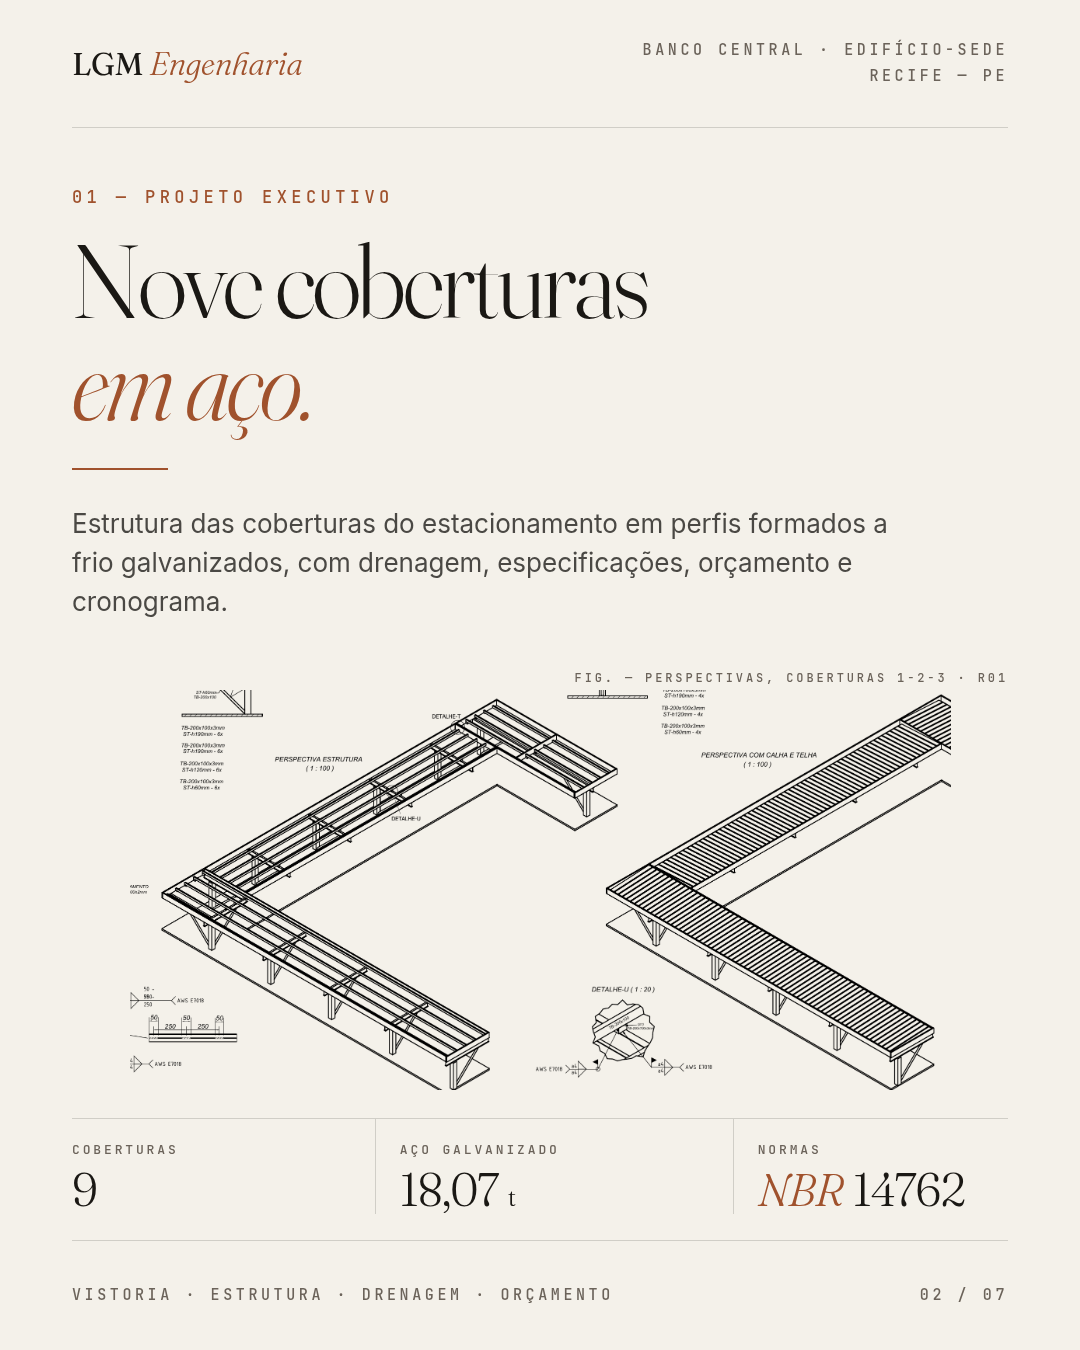
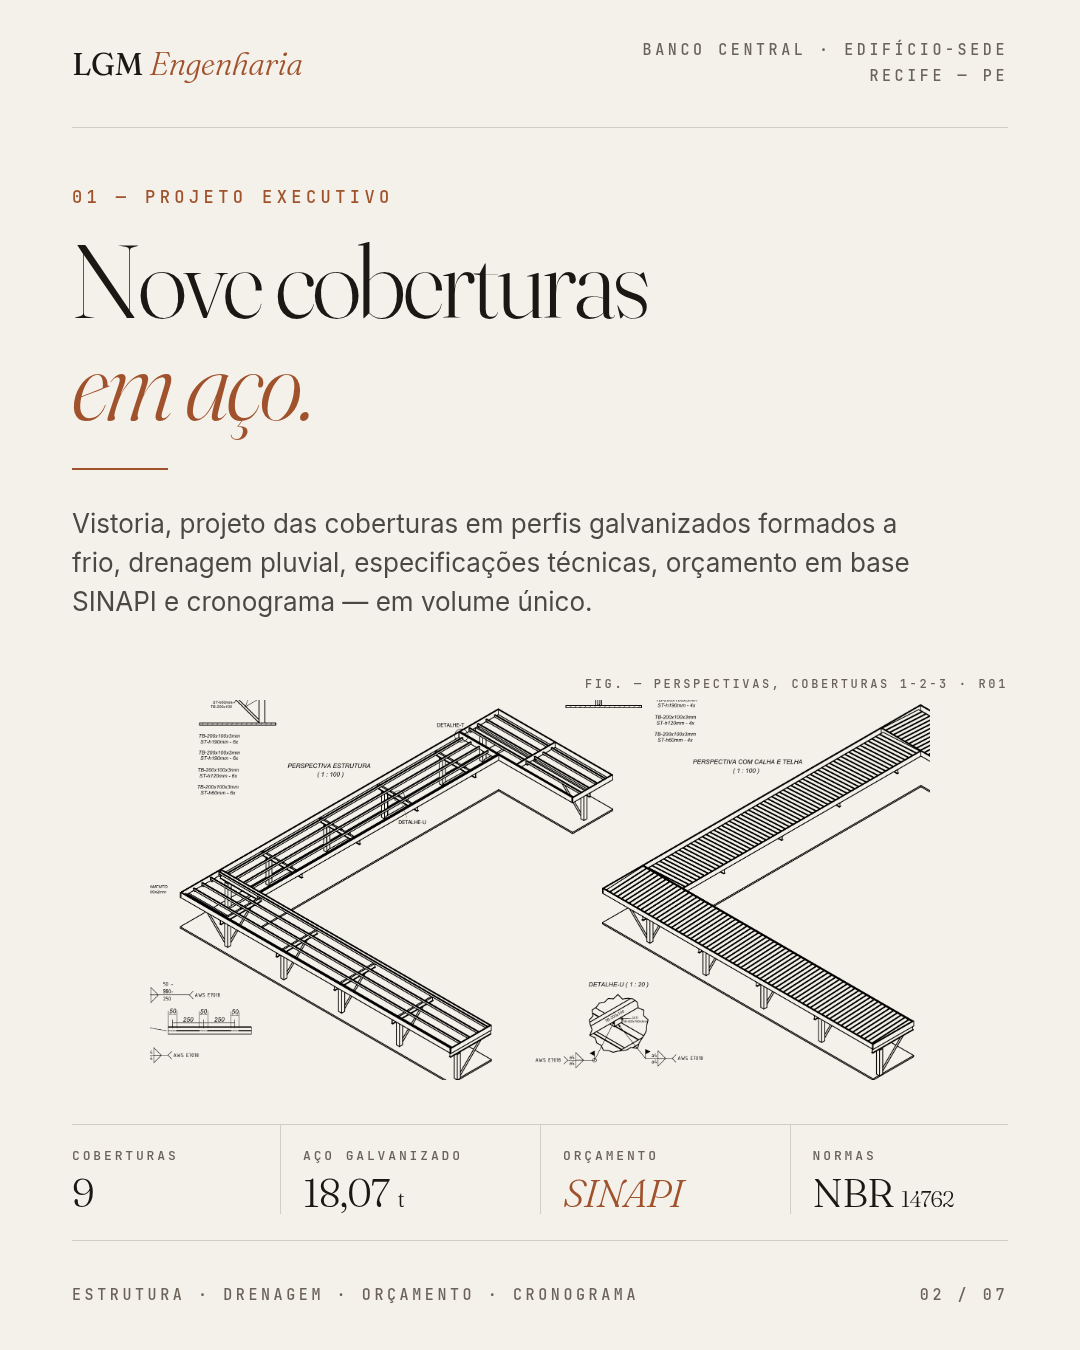
Carrossel Entregues 2026: SINAPI em destaque, plantas da Capitania e de Dom Silvério, fotos novas e fecho com o L.
- Remove créditos de terceiros, CREA e telefone dos slides e da legenda
- Banco Central, Dom Silvério e Marinha citam orçamento em base SINAPI
- Capitania: planta baixa do projeto básico como figura principal
- Dom Silvério: fachada + planta baixa como figura do projeto
- Débora: render da casa pronta; Chalé M.D.: render do chalé
- Último slide só com o L. e a frase Do risco à chave

Claude-Session: https://claude.ai/code/session_01PRv9GQGVQpthPzk2xkVq1a

diff --git a/instagram/entregues_2026.html b/instagram/entregues_2026.html
@@ -43,6 +43,8 @@ html,body{background:#0d0c0a;}
 .dk .p,.ov .p{color:rgba(244,241,234,.82);}
 .bar{width:96px;height:2px;background:var(--terra);margin:34px 0;}
 .dk .bar,.ov .bar{background:var(--terra-c);}
+.cap{font-family:var(--M);font-weight:500;font-size:12px;letter-spacing:.22em;text-transform:uppercase;color:var(--muted);}
+.dk .cap,.ov .cap{color:rgba(244,241,234,.55);}
 .tags{display:flex;flex-wrap:wrap;gap:12px;}
 .tag{font-family:var(--M);font-weight:500;font-size:14px;letter-spacing:.2em;text-transform:uppercase;
   border:1px solid currentColor;padding:9px 14px 8px;opacity:.85;}
@@ -50,25 +52,27 @@ html,body{background:#0d0c0a;}
 /* ficha técnica */
 .spec{display:grid;border-top:1px solid rgba(26,24,20,.16);}
 .dk .spec,.ov .spec{border-color:rgba(244,241,234,.18);}
-.spec>div{padding:22px 24px 0 0;}
-.spec>div+div{padding-left:24px;border-left:1px solid rgba(26,24,20,.16);}
+.spec>div{padding:22px 20px 0 0;}
+.spec>div+div{padding-left:22px;border-left:1px solid rgba(26,24,20,.16);}
 .dk .spec>div+div,.ov .spec>div+div{border-color:rgba(244,241,234,.18);}
-.spec .k{font-family:var(--M);font-weight:500;font-size:13px;letter-spacing:.22em;text-transform:uppercase;color:var(--muted);}
+.spec .k{font-family:var(--M);font-weight:500;font-size:13px;letter-spacing:.22em;text-transform:uppercase;color:var(--muted);white-space:nowrap;}
 .dk .spec .k,.ov .spec .k{color:rgba(244,241,234,.55);}
-.spec .v{font-family:var(--D);font-weight:300;font-size:46px;letter-spacing:-.02em;margin-top:8px;line-height:1.05;}
+.spec .v{font-family:var(--D);font-weight:300;font-size:46px;letter-spacing:-.02em;margin-top:8px;line-height:1.05;white-space:nowrap;}
 .spec .v small{font-size:.55em;}
 .spec .v em{font-style:italic;color:var(--terra);}
 .dk .spec .v em,.ov .spec .v em{color:var(--terra-c);}
+.spec.four .v{font-size:40px;}
 
-/* foto em sangria com tratamento */
+/* imagens */
 .bg{position:absolute;inset:0;background-size:cover;background-position:center;z-index:0;}
 .shade{position:absolute;inset:0;z-index:1;}
 .ov{color:var(--papel);}
 .box{position:absolute;left:72px;right:72px;z-index:10;}
+.draw{background-size:contain;background-position:center;background-repeat:no-repeat;mix-blend-mode:multiply;}
 
 /* ═════ 01 · CAPA ═════ */
 #s1 .draw{position:absolute;left:60px;right:60px;top:150px;height:330px;z-index:1;
-  background:url('../assets/projetos/bcb-perspectiva.png') center/contain no-repeat;
+  background-image:url('../assets/projetos/bcb-perspectiva.png');
   filter:invert(1) sepia(.35);mix-blend-mode:screen;opacity:.30;}
 #s1 .box{bottom:150px;}
 #s1 .h{font-size:176px;margin-top:26px;}
@@ -80,58 +84,54 @@ html,body{background:#0d0c0a;}
 /* ═════ 02 · BCB ═════ */
 #s2 .top{position:absolute;top:186px;left:72px;right:72px;}
 #s2 .h{font-size:104px;margin-top:22px;}
-#s2 .p{margin-top:0;font-size:26px;max-width:860px;}
-#s2 .draw{position:absolute;left:20px;right:20px;top:690px;height:400px;
-  background:url('../assets/projetos/bcb-perspectiva.png') center/contain no-repeat;mix-blend-mode:multiply;}
-#s2 .spec{position:absolute;left:72px;right:72px;bottom:110px;grid-template-columns:1.1fr 1.3fr 1fr;padding-bottom:26px;}
-#s2 .cap{position:absolute;right:72px;top:668px;color:var(--muted);font-size:12px;}
+#s2 .p{font-size:26px;max-width:880px;}
+#s2 .draw{position:absolute;left:20px;right:20px;top:700px;height:380px;
+  background-image:url('../assets/projetos/bcb-perspectiva.png');}
+#s2 .cap{position:absolute;right:72px;top:676px;}
+#s2 .spec{position:absolute;left:72px;right:72px;bottom:110px;grid-template-columns:1fr 1.25fr 1.2fr 1.05fr;padding-bottom:26px;}
 
 /* ═════ 03 · DOM SILVÉRIO ═════ */
-#s3 .bg{top:129px;bottom:auto;height:600px;background-image:url('../assets/projetos/dom-silverio-fachada-frontal.jpg');background-position:50% 60%;}
-#s3 .shade{top:129px;bottom:auto;height:600px;background:linear-gradient(to bottom,rgba(26,24,20,0) 70%,var(--tinta) 100%);}
-#s3 .box{bottom:140px;}
-#s3 .h{font-size:100px;margin-top:22px;}
-#s3 .p{font-size:26px;max-width:840px;}
-#s3 .spec{grid-template-columns:repeat(3,1fr);margin-top:40px;}
-#s3 .credit{position:absolute;right:72px;top:690px;z-index:10;font-size:12px;color:rgba(244,241,234,.7);}
+#s3 .bg{top:129px;bottom:auto;height:420px;background-image:url('../assets/projetos/dom-silverio-fachada.jpg');background-position:50% 55%;}
+#s3 .top{position:absolute;top:596px;left:72px;right:72px;display:grid;grid-template-columns:1fr 360px;column-gap:44px;}
+#s3 .h{font-size:84px;margin-top:20px;}
+#s3 .p{font-size:24px;margin-top:26px;max-width:600px;}
+#s3 .fig{width:360px;height:218px;margin-top:6px;background:url('../assets/projetos/dom-silverio-planta.png') center/cover;
+  border:1px solid rgba(244,241,234,.18);}
+#s3 .fig-cap{margin-top:12px;}
+#s3 .spec{position:absolute;left:72px;right:72px;bottom:110px;grid-template-columns:1fr 1fr 1.25fr 1fr;padding-bottom:26px;}
 
 /* ═════ 04 · MARINHA ═════ */
 #s4{background:var(--papel2);}
-#s4 .top{position:absolute;top:186px;left:72px;right:72px;display:grid;grid-template-columns:1fr 400px;gap:56px;}
-#s4 .h{font-size:92px;margin-top:22px;}
-#s4 .p{font-size:26px;}
-#s4 .doc{width:400px;height:566px;background:url('../assets/projetos/marinha-memorial-capa.png') center/cover;
-  box-shadow:0 1px 0 rgba(26,24,20,.08),0 30px 60px rgba(26,24,20,.22);margin-top:8px;}
-#s4 .doc-cap{margin-top:18px;color:var(--muted);font-size:12px;}
-#s4 .spec{position:absolute;left:72px;right:72px;bottom:110px;grid-template-columns:repeat(3,1fr);padding-bottom:26px;}
+#s4 .cap{position:absolute;left:72px;top:160px;}
+#s4 .draw{position:absolute;left:30px;right:30px;top:196px;height:390px;
+  background-image:url('../assets/projetos/marinha-planta.png');}
+#s4 .top{position:absolute;top:600px;left:72px;right:72px;}
+#s4 .h{font-size:92px;margin-top:20px;}
+#s4 .p{font-size:25px;margin-top:26px;max-width:900px;}
+#s4 .spec{position:absolute;left:72px;right:72px;bottom:110px;grid-template-columns:1fr 1.15fr 1.25fr 1fr;padding-bottom:26px;}
 
 /* ═════ 05 · DÉBORA LSF ═════ */
-#s5 .bg{top:300px;background-image:url('../assets/projetos/debora-estrutura-lsf.jpg');background-position:center 40%;}
-#s5 .shade{background:linear-gradient(to bottom,var(--tinta) 0%,var(--tinta) 22%,rgba(26,24,20,.2) 40%,rgba(26,24,20,0) 52%,rgba(26,24,20,.55) 70%,rgba(26,24,20,.96) 86%);}
-#s5 .top{position:absolute;top:186px;left:72px;right:72px;z-index:10;}
-#s5 .h{font-size:100px;margin-top:22px;}
-#s5 .box{bottom:140px;}
-#s5 .spec{grid-template-columns:repeat(3,1fr);}
-#s5 .cap{position:absolute;right:72px;bottom:430px;z-index:10;font-size:12px;color:rgba(244,241,234,.6);}
+#s5 .bg{top:129px;bottom:auto;height:760px;background-image:url('../assets/projetos/debora-casa.jpg');background-position:center 62%;}
+#s5 .shade{top:129px;bottom:auto;height:760px;background:linear-gradient(to bottom,rgba(26,24,20,0) 55%,rgba(26,24,20,.9) 88%,var(--tinta) 100%);}
+#s5 .box{top:700px;}
+#s5 .h{font-size:92px;margin-top:20px;}
+#s5 .tags{margin-top:34px;}
+#s5 .spec{position:absolute;left:72px;right:72px;bottom:110px;grid-template-columns:1.1fr 1fr 1.05fr;padding-bottom:26px;}
 
-/* ═════ 06 · NA PRANCHETA ═════ */
-#s6 .split{position:absolute;top:128px;left:0;right:0;height:440px;padding:56px 72px 0;}
+/* ═════ 06 · CHALÉ ═════ */
+#s6 .top{position:absolute;top:184px;left:72px;right:72px;}
 #s6 .h{font-size:92px;margin-top:22px;}
 #s6 .p{font-size:25px;max-width:860px;margin-top:22px;}
-#s6 .img{position:absolute;left:0;right:0;top:600px;bottom:110px;background:url('../assets/projetos/md-residencia-aerea.jpg') center 55%/cover;}
+#s6 .img{position:absolute;left:0;right:0;top:600px;bottom:110px;background:url('../assets/projetos/chale-md.jpg') center 48%/cover;}
 #s6 .ft{background:var(--papel);}
 #s6 .stamp{position:absolute;left:72px;bottom:140px;z-index:5;background:var(--papel);padding:14px 20px 12px;color:var(--terra);}
 
-/* ═════ 07 · CTA ═════ */
-#s7 .box{top:250px;}
-#s7 .h{font-size:150px;margin-top:30px;}
-#s7 .p{font-size:30px;max-width:800px;font-family:var(--D);font-style:italic;font-weight:300;color:rgba(244,241,234,.78);}
-#s7 .contact{position:absolute;left:72px;right:72px;bottom:150px;z-index:10;border-top:1px solid rgba(244,241,234,.18);}
-#s7 .row{display:grid;grid-template-columns:200px 1fr;align-items:baseline;padding:24px 0;border-bottom:1px solid rgba(244,241,234,.18);}
-#s7 .row .mono{color:var(--terra-c);font-size:14px;}
-#s7 .row .v{font-family:var(--D);font-weight:300;font-size:44px;letter-spacing:-.01em;}
-#s7 .L{position:absolute;right:40px;top:150px;font-family:var(--D);font-weight:300;font-size:520px;line-height:.8;color:rgba(244,241,234,.04);z-index:1;}
-#s7 .L em{color:rgba(201,122,78,.12);font-style:italic;}
+/* ═════ 07 · FECHO ═════ */
+#s7 .mark{position:absolute;left:50%;top:356px;transform:translateX(-50%);width:400px;height:447px;
+  background:url('../assets/logo-L.png') center/contain no-repeat;}
+#s7 .line{position:absolute;left:72px;right:72px;top:870px;text-align:center;
+  font-family:var(--D);font-weight:300;font-size:78px;letter-spacing:-.02em;color:var(--tinta);}
+#s7 .line em{font-style:italic;color:var(--terra);}
 
 /* apoio (fora das imagens) */
 .kit{width:1080px;margin:40px 0 80px;padding:56px 72px;background:var(--papel);color:var(--tinta);font-family:var(--B);}
@@ -170,33 +170,39 @@ html,body{background:#0d0c0a;}
     <div class="kick">01 — Projeto executivo</div>
     <div class="h">Nove coberturas<br><em>em aço.</em></div>
     <div class="bar"></div>
-    <p class="p">Estrutura das coberturas do estacionamento em perfis formados a frio galvanizados, com drenagem, especificações, orçamento e cronograma.</p>
+    <p class="p">Vistoria, projeto das coberturas em perfis galvanizados formados a frio, drenagem pluvial, especificações técnicas, orçamento em base SINAPI e cronograma — em volume único.</p>
   </div>
-  <div class="cap mono">Fig. — Perspectivas, coberturas 1-2-3 · R01</div>
+  <div class="cap">Fig. — Perspectivas, coberturas 1-2-3 · R01</div>
   <div class="draw"></div>
-  <div class="spec">
+  <div class="spec four">
     <div><div class="k">Coberturas</div><div class="v">9</div></div>
     <div><div class="k">Aço galvanizado</div><div class="v">18,07 <small>t</small></div></div>
-    <div><div class="k">Normas</div><div class="v"><em>NBR</em> 14762</div></div>
+    <div><div class="k">Orçamento</div><div class="v"><em>SINAPI</em></div></div>
+    <div><div class="k">Normas</div><div class="v">NBR <small>14762</small></div></div>
   </div>
-  <div class="ft"><span class="mono">Vistoria · Estrutura · Drenagem · Orçamento</span><span class="mono">02 / 07</span></div>
+  <div class="ft"><span class="mono">Estrutura · Drenagem · Orçamento · Cronograma</span><span class="mono">02 / 07</span></div>
 </section>
 
 <!-- 03 · DOM SILVÉRIO -->
-<section class="slide ov dk" id="s3">
-  <div class="bg"></div><div class="shade"></div>
+<section class="slide dk" id="s3">
+  <div class="bg"></div>
   <div class="hd"><div class="wm">LGM <em>Engenharia</em></div><div class="mono">Câmara Municipal<br>Dom Silvério — MG</div></div>
-  <div class="credit mono">Render · arq. Mirian Silva</div>
-  <div class="box">
-    <div class="kick">02 — Orçamento de obra</div>
-    <div class="h">Reforma pública,<br><em>conta fechada.</em></div>
-    <div class="bar"></div>
-    <p class="p">Orçamento, especificações, curva ABC e cronograma físico-financeiro para a reforma da Câmara Municipal.</p>
-    <div class="spec">
-      <div><div class="k">Intervenção</div><div class="v">210 <small>m²</small></div></div>
-      <div><div class="k">Prazo de obra</div><div class="v">2 <small>meses</small></div></div>
-      <div><div class="k">Entrega</div><div class="v"><em>set</em> 2026</div></div>
+  <div class="top">
+    <div>
+      <div class="kick">02 — Orçamento de obra pública</div>
+      <div class="h">Reforma pública,<br><em>conta fechada.</em></div>
+      <p class="p">Orçamento analítico em base SINAPI-MG, curva ABC, memoriais descritivos e cronograma físico-financeiro — cobertura nova, plenário e salas.</p>
     </div>
+    <div>
+      <div class="fig"></div>
+      <div class="cap fig-cap">Fig. — Planta baixa · 1/75</div>
+    </div>
+  </div>
+  <div class="spec four">
+    <div><div class="k">Intervenção</div><div class="v">210 <small>m²</small></div></div>
+    <div><div class="k">Serviços</div><div class="v">119</div></div>
+    <div><div class="k">Base</div><div class="v"><em>SINAPI</em>-MG</div></div>
+    <div><div class="k">Prazo</div><div class="v">2 <small>meses</small></div></div>
   </div>
   <div class="ft"><span class="mono">Orçamento · Curva ABC · Cronograma</span><span class="mono">03 / 07</span></div>
 </section>
@@ -204,99 +210,83 @@ html,body{background:#0d0c0a;}
 <!-- 04 · MARINHA -->
 <section class="slide" id="s4">
   <div class="hd"><div class="wm">LGM <em>Engenharia</em></div><div class="mono">Marinha do Brasil · CFMT<br>Cuiabá — MT</div></div>
+  <div class="cap">Fig. — Planta baixa · anexo administrativo</div>
+  <div class="draw"></div>
   <div class="top">
-    <div>
-      <div class="kick">03 — Orçamento e memorial</div>
-      <div class="h">Anexo<br>administrativo<br><em>da Capitania.</em></div>
-      <div class="bar"></div>
-      <p class="p">Orçamento analítico, memorial de quantitativos e especificações para o anexo em alvenaria estrutural da Capitania Fluvial de Mato Grosso.</p>
-    </div>
-    <div><div class="doc"></div><div class="doc-cap mono">Fig. — Memorial · capa</div></div>
+    <div class="kick">03 — Projeto básico e orçamento</div>
+    <div class="h">Anexo administrativo<br><em>da Capitania.</em></div>
+    <p class="p">Projeto básico, orçamento analítico em base SINAPI-MT, memorial de quantitativos e especificações para o anexo em alvenaria estrutural sobre radier, com cobertura metálica.</p>
   </div>
-  <div class="spec">
+  <div class="spec four">
     <div><div class="k">Área construída</div><div class="v">177 <small>m²</small></div></div>
-    <div><div class="k">Composição</div><div class="v">73 <small>itens</small></div></div>
-    <div><div class="k">Base</div><div class="v"><em>SINAPI</em> MT</div></div>
+    <div><div class="k">Serviços</div><div class="v">81 <small>· 10 etapas</small></div></div>
+    <div><div class="k">Base</div><div class="v"><em>SINAPI</em>-MT</div></div>
+    <div><div class="k">Prazo de obra</div><div class="v">4 <small>meses</small></div></div>
   </div>
-  <div class="ft"><span class="mono">Orçamento · Memorial · ART</span><span class="mono">04 / 07</span></div>
+  <div class="ft"><span class="mono">Projeto básico · Orçamento · Memorial</span><span class="mono">04 / 07</span></div>
 </section>
 
 <!-- 05 · DÉBORA LSF -->
 <section class="slide ov dk" id="s5">
   <div class="bg"></div><div class="shade"></div>
   <div class="hd"><div class="wm">LGM <em>Engenharia</em></div><div class="mono">Residência Débora<br>Taquaraçu de Minas — MG</div></div>
-  <div class="top">
+  <div class="box">
     <div class="kick">04 — Projeto estrutural</div>
     <div class="h">A casa inteira,<br><em>perfil a perfil.</em></div>
+    <div class="tags"><span class="tag">Montantes</span><span class="tag">Guias</span><span class="tag">Ligações</span><span class="tag">Contraventamento</span></div>
   </div>
-  <div class="cap mono">Imagem conceitual a partir do projeto</div>
-  <div class="box">
-    <div class="tags" style="margin-bottom:34px"><span class="tag">Montantes</span><span class="tag">Guias</span><span class="tag">Ligações</span><span class="tag">Contraventamento</span></div>
-    <div class="spec">
-      <div><div class="k">Sistema</div><div class="v"><em>Light</em> Steel</div></div>
-      <div><div class="k">Escopo</div><div class="v">Executivo</div></div>
-      <div><div class="k">Programa</div><div class="v">Casa <small>+ anexo</small></div></div>
-    </div>
+  <div class="spec">
+    <div><div class="k">Sistema</div><div class="v"><em>Light</em> Steel Frame</div></div>
+    <div><div class="k">Escopo</div><div class="v">Executivo</div></div>
+    <div><div class="k">Programa</div><div class="v">Casa <small>+ anexo</small></div></div>
   </div>
   <div class="ft"><span class="mono">Precisão desde o primeiro perfil</span><span class="mono">05 / 07</span></div>
 </section>
 
-<!-- 06 · NA PRANCHETA -->
+<!-- 06 · CHALÉ -->
 <section class="slide" id="s6">
-  <div class="hd"><div class="wm">LGM <em>Engenharia</em></div><div class="mono">Residência M.D.<br>Marília — SP</div></div>
-  <div class="split">
+  <div class="hd"><div class="wm">LGM <em>Engenharia</em></div><div class="mono">Chalé M.D.<br>Marília — SP</div></div>
+  <div class="top">
     <div class="kick">Em desenvolvimento</div>
     <div class="h">E o próximo<br><em>já tem forma.</em></div>
-    <p class="p">Projeto arquitetônico em revisão: dois pavimentos, varanda em vidro e pergolado na garagem.</p>
+    <p class="p">Projeto arquitetônico em revisão: chalé em dois pavimentos, varanda em madeira e piscina.</p>
   </div>
   <div class="img"></div>
   <div class="stamp mono">Rev. 01 · em curso</div>
   <div class="ft"><span class="mono">Arquitetura · Render</span><span class="mono">06 / 07</span></div>
 </section>
 
-<!-- 07 · CTA -->
-<section class="slide dk" id="s7">
-  <div class="L">L<em>.</em></div>
-  <div class="hd"><div class="wm">LGM <em>Engenharia</em></div><div class="mono">Próximo capítulo<br>Marília — SP</div></div>
-  <div class="box">
-    <div class="kick">05 — Seu projeto</div>
-    <div class="h">Do risco<br><em>à chave.</em></div>
-    <div class="bar"></div>
-    <p class="p">— Projeto, orçamento, gestão e regularização com um único responsável técnico. Começa com uma conversa.</p>
-  </div>
-  <div class="contact">
-    <div class="row"><span class="mono">Direct</span><span class="v">@eng.gustavomaia</span></div>
-    <div class="row"><span class="mono">WhatsApp</span><span class="v">(14) 99185-0799</span></div>
-    <div class="row"><span class="mono">Registro</span><span class="v">CREA-SP 5071068977</span></div>
-  </div>
-  <div class="ft"><span class="mono">Salve · Compartilhe</span><span class="mono">07 / 07</span></div>
+<!-- 07 · FECHO -->
+<section class="slide" id="s7">
+  <div class="mark"></div>
+  <div class="line">Do risco <em>à chave.</em></div>
 </section>
 
 <section class="kit">
   <h3>Legenda <em>do post.</em></h3>
-  <p>Publique os 7 slides na ordem. Créditos: render da Câmara de Dom Silvério por arq. Mirian Silva (marque o perfil dela). Slide 5 usa imagem conceitual do carrossel da Débora.</p>
+  <p>Publique os 7 slides na ordem. Sem telefone, CREA ou créditos de terceiros nos slides e na legenda.</p>
   <pre id="caption">Saiu da prancheta.
 
 Quatro projetos entregues pela LGM em 2026 — de Recife a Cuiabá:
 
 01 · Banco Central, Edifício-Sede (Recife – PE)
-Projeto executivo de 9 coberturas em aço galvanizado: estrutura, drenagem, especificações, orçamento e cronograma.
+Projeto executivo de 9 coberturas em aço galvanizado: estrutura, drenagem, especificações, orçamento em base SINAPI e cronograma.
 
 02 · Câmara Municipal de Dom Silvério (MG)
-Orçamento de obra, especificações, curva ABC e cronograma físico-financeiro da reforma. Render: arq. Mirian Silva.
+Orçamento analítico em base SINAPI-MG, curva ABC, memoriais e cronograma físico-financeiro da reforma.
 
 03 · Marinha do Brasil, Capitania Fluvial de MT (Cuiabá)
-Orçamento analítico e memorial do anexo administrativo em alvenaria estrutural.
+Projeto básico, orçamento em base SINAPI-MT e memorial do anexo administrativo em alvenaria estrutural.
 
 04 · Residência Débora (Taquaraçu de Minas – MG)
 Projeto estrutural executivo em Light Steel Frame.
 
-E na prancheta agora: uma residência em Marília.
+E na prancheta agora: um chalé em Marília.
 
-Do risco à chave — com ART em cada etapa.
-Seu projeto é o próximo? Direct ou WhatsApp (14) 99185-0799.
+Do risco à chave.
+Seu projeto é o próximo? Chama no direct.
 
-#engenhariacivil #projetoestrutural #steelframe #lightsteelframe #orcamentodeobra #estruturametalica #engenheirocivil #mariliasp #lgmengenharia</pre>
+#engenhariacivil #projetoestrutural #steelframe #lightsteelframe #orcamentodeobra #sinapi #estruturametalica #engenheirocivil #mariliasp #lgmengenharia</pre>
   <button onclick="navigator.clipboard.writeText(document.getElementById('caption').innerText);this.textContent='Legenda copiada'">Copiar legenda</button>
 </section>
 

diff --git a/instagram/entregues_2026/LEGENDA.md b/instagram/entregues_2026/LEGENDA.md
@@ -1,7 +1,6 @@
 # Legenda — "Saiu da prancheta" · Entregues 2026
 
 Publique os 7 PNGs na ordem (01 → 07), formato 4:5 (1080×1350).
-Marque a arq. Mirian Silva no slide 3 (render da Câmara de Dom Silvério).
 
 ```
 Saiu da prancheta.
@@ -9,21 +8,21 @@ Saiu da prancheta.
 Quatro projetos entregues pela LGM em 2026 — de Recife a Cuiabá:
 
 01 · Banco Central, Edifício-Sede (Recife – PE)
-Projeto executivo de 9 coberturas em aço galvanizado: estrutura, drenagem, especificações, orçamento e cronograma.
+Projeto executivo de 9 coberturas em aço galvanizado: estrutura, drenagem, especificações, orçamento em base SINAPI e cronograma.
 
 02 · Câmara Municipal de Dom Silvério (MG)
-Orçamento de obra, especificações, curva ABC e cronograma físico-financeiro da reforma. Render: arq. Mirian Silva.
+Orçamento analítico em base SINAPI-MG, curva ABC, memoriais e cronograma físico-financeiro da reforma.
 
 03 · Marinha do Brasil, Capitania Fluvial de MT (Cuiabá)
-Orçamento analítico e memorial do anexo administrativo em alvenaria estrutural.
+Projeto básico, orçamento em base SINAPI-MT e memorial do anexo administrativo em alvenaria estrutural.
 
 04 · Residência Débora (Taquaraçu de Minas – MG)
 Projeto estrutural executivo em Light Steel Frame.
 
-E na prancheta agora: uma residência em Marília.
+E na prancheta agora: um chalé em Marília.
 
-Do risco à chave — com ART em cada etapa.
-Seu projeto é o próximo? Direct ou WhatsApp (14) 99185-0799.
+Do risco à chave.
+Seu projeto é o próximo? Chama no direct.
 
-#engenhariacivil #projetoestrutural #steelframe #lightsteelframe #orcamentodeobra #estruturametalica #engenheirocivil #mariliasp #lgmengenharia
+#engenhariacivil #projetoestrutural #steelframe #lightsteelframe #orcamentodeobra #sinapi #estruturametalica #engenheirocivil #mariliasp #lgmengenharia
 ```
